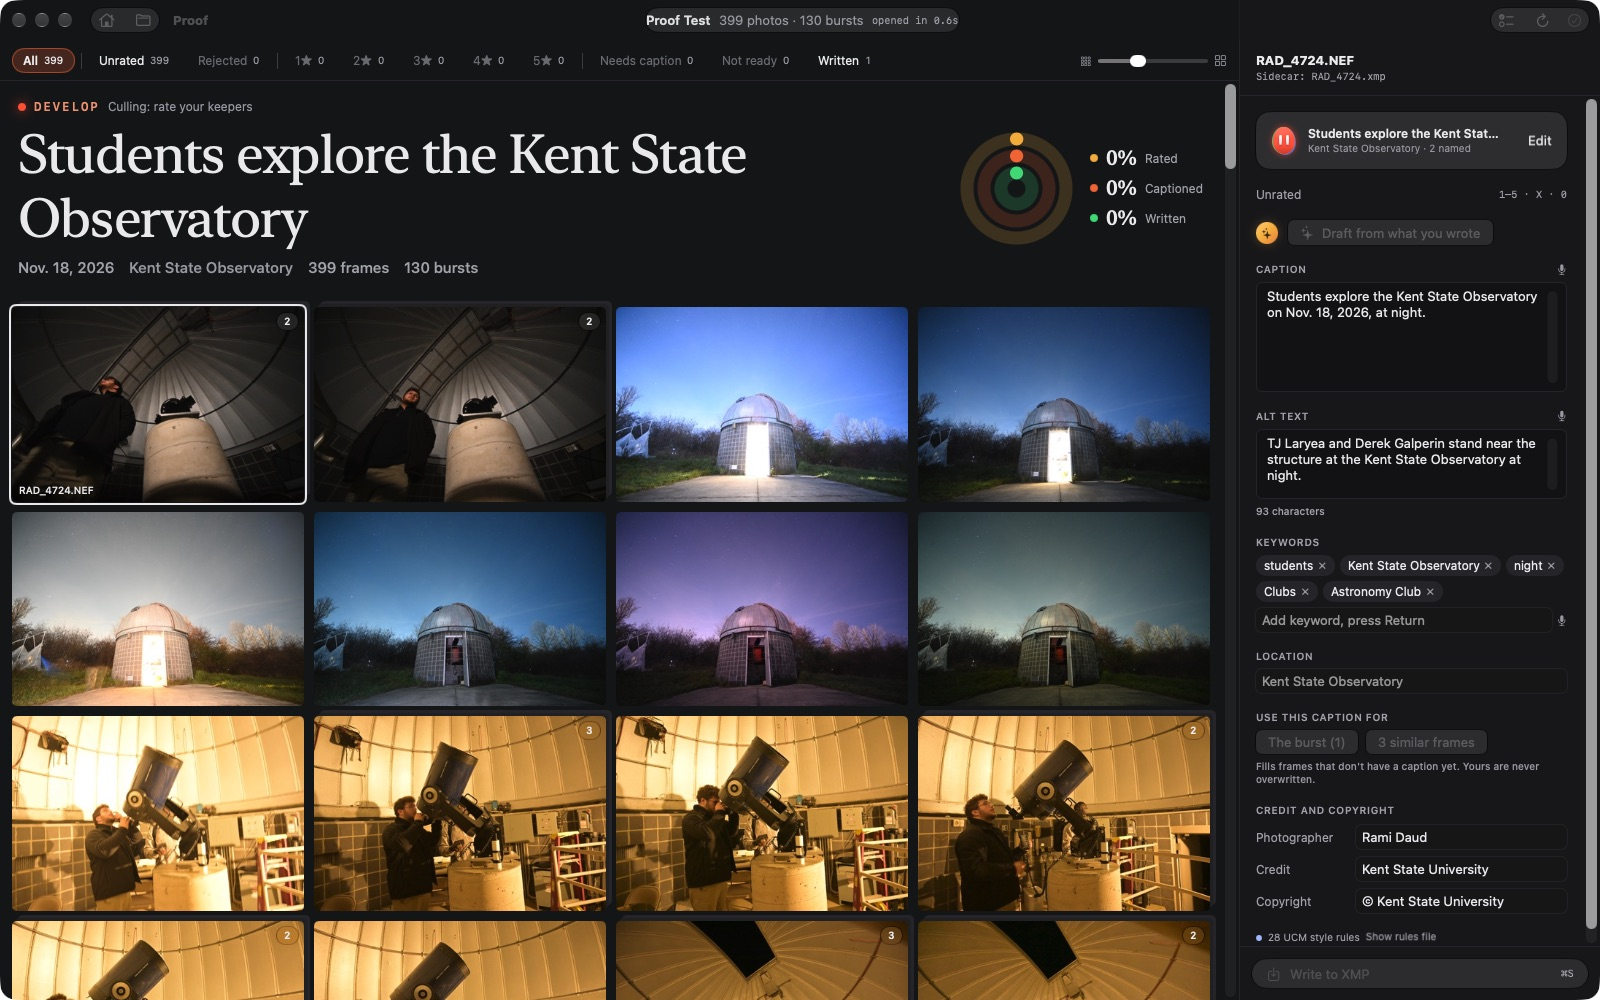
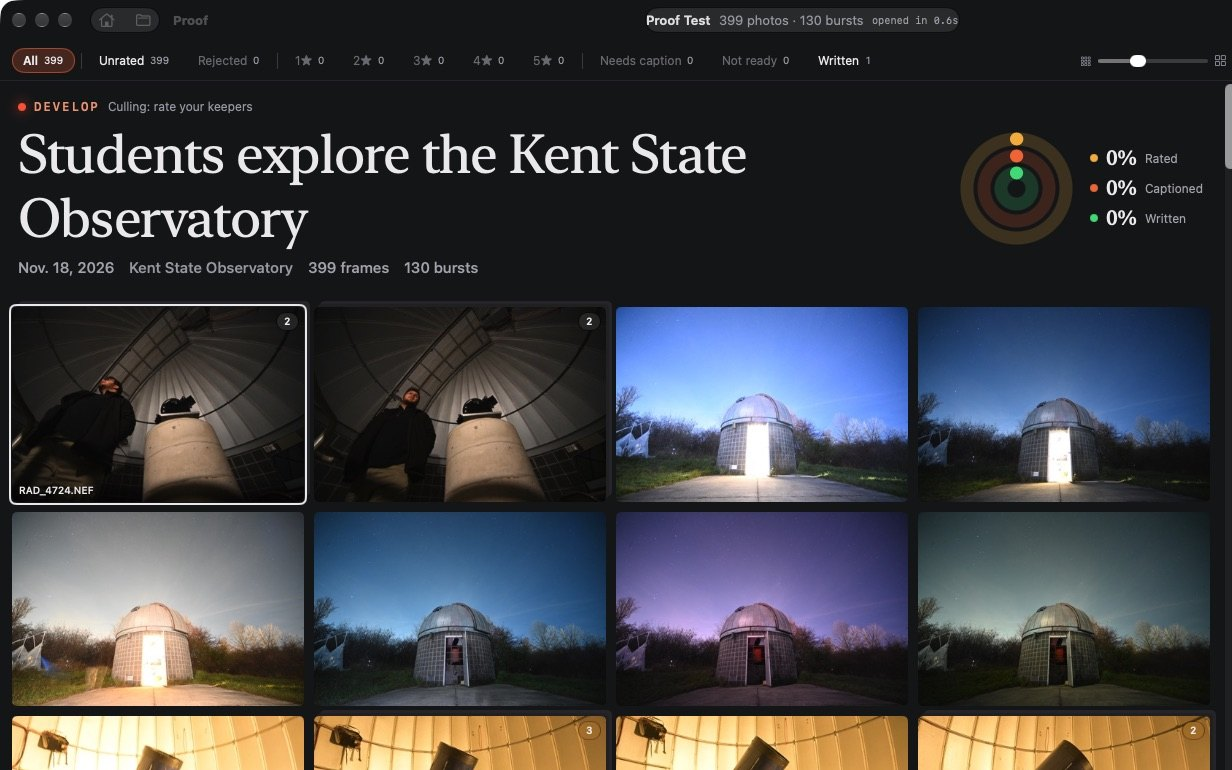
Proof case file: fit captions and layout to the real stills
- Crop grid.jpg to the grid; its side panel showed names in alt text,
  which contradicted rule 2 on the page
- Drop the drawn window title bar; the stills carry their own chrome
- Rewrite captions and alt text to match what each screen shows
- Until demo.mp4 exists, the hero shows the grid still (and hides the
  duplicate below); the video takes over once the file lands
- Screens open full size on tap

Claude-Session: https://claude.ai/code/session_01Lig4WMKQv67K6HpMEUw5vW

diff --git a/work/proof/index.html b/work/proof/index.html
@@ -42,10 +42,15 @@
 .pf .dark h2 { color: var(--dk-ink); }
 .pf .dark h2 i { color: var(--safe); }
 .pf .win { position: relative; margin: 0; border-radius: 12px; overflow: hidden; background: #0e0d0a; box-shadow: 0 0 0 1px rgba(255,255,255,.09), 0 30px 60px -30px rgba(0,0,0,.8); }
-.pf .win::before { content: ""; display: block; height: 26px; background: #1d1b16 radial-gradient(circle at 14px 13px, #ff5f57 5px, transparent 5.5px), #1d1b16; background-image: radial-gradient(circle at 14px 13px, #ff5f57 4.5px, transparent 5px), radial-gradient(circle at 30px 13px, #febc2e 4.5px, transparent 5px), radial-gradient(circle at 46px 13px, #28c840 4.5px, transparent 5px); border-bottom: 1px solid rgba(255,255,255,.06); }
 .pf .win img, .pf .win video { display: block; width: 100%; height: auto; }
 .pf .win .todo { display: none; }
 .pf .win.missing img, .pf .win.missing video { display: none; }
+.pf .win .fb { display: none; }
+.pf .win.missing .fb { display: block; }
+.pf .hero-shot .win.missing .todo { display: none; }
+.pf .win a.zoom { display: block; cursor: zoom-in; }
+.pf .win.missing a.zoom { display: none; }
+.pf .win a.zoom:focus-visible { outline: 2px solid var(--amber); outline-offset: -2px; }
 .pf .win.missing .todo { display: grid; place-content: center; gap: 6px; text-align: center; aspect-ratio: 16 / 10; padding: 20px; font-family: var(--mono); font-size: 12px; letter-spacing: .08em; text-transform: uppercase; color: var(--dk-mute); background: repeating-linear-gradient(135deg, #15130f 0 14px, #191712 14px 28px); }
 .pf .win.missing .todo b { color: var(--amber); font-weight: 500; }
 .pf figcaption { font-family: var(--mono); font-size: 11.5px; letter-spacing: .04em; line-height: 1.5; margin-top: 10px; color: var(--ink-2); }
@@ -171,9 +176,10 @@
           <div class="dark hero-shot">
             <figure class="win" data-shot>
               <video src="../../assets/img/proof/demo.mp4" poster="../../assets/img/proof/demo-poster.jpg" muted loop playsinline preload="metadata" aria-label="Proof in use: a folder of night photos opens, a burst is rated, a caption is drafted and approved, and Lightroom shows it."></video>
+              <img class="fb" src="../../assets/img/proof/grid.jpg" alt="Proof's grid of the observatory shoot under the title Students explore the Kent State Observatory, with burst counts on the thumbnails, a filter bar along the top and progress rings for rated, captioned and written." width="1232" height="770">
               <div class="todo" aria-hidden="true"><b>Recording to come</b><span>demo.mp4 · folder to Lightroom, 90 seconds</span></div>
             </figure>
-            <figcaption>Proof, from a folder of raw files to a caption in Lightroom. The caption was drafted on the Mac and approved by me before anything was written.</figcaption>
+            <figcaption id="hero-cap" data-fallback="The grid. Frames shot within a second of each other stack into bursts, and previews come from inside each raw file, so this 399-frame shoot opened in 0.6 seconds.">Proof, from a folder of raw files to a caption in Lightroom. The caption was drafted on the Mac and approved by me before anything was written.</figcaption>
           </div>
 
           <section aria-labelledby="why-h">
@@ -225,15 +231,15 @@
             </ol>
             <div class="dark" style="margin-top:28px">
               <div class="gallery">
-                <figure class="wide"><div class="win" data-shot><img src="../../assets/img/proof/grid.jpg" alt="Proof's grid of night-sky photos, grouped into burst stacks, with a filter bar along the top." width="2400" height="1500" loading="lazy"><div class="todo" aria-hidden="true"><b>Screenshot to come</b><span>grid.jpg · the observatory shoot in the grid</span></div></div>
-                  <figcaption>The grid. Frames shot within a second of each other stack into bursts, and previews come from inside each raw file, so 399 frames scroll without waiting.</figcaption></figure>
-                <figure><div class="win" data-shot><img src="../../assets/img/proof/brief.jpg" alt="A chat with Pixel asking about the event, with Airtable jobs from the same day offered as quick replies." width="1600" height="1000" loading="lazy"><div class="todo" aria-hidden="true"><b>Screenshot to come</b><span>brief.jpg · the shoot brief with Pixel</span></div></div>
-                  <figcaption>The brief. Pixel asks what the shoot was, and the matching Airtable job fills it in.</figcaption></figure>
-                <figure><div class="win" data-shot><img src="../../assets/img/proof/draft.jpg" alt="A photo in full view with an amber draft caption and alt text, and an Accept button." width="1600" height="1000" loading="lazy"><div class="todo" aria-hidden="true"><b>Screenshot to come</b><span>draft.jpg · an amber draft waiting for approval</span></div></div>
-                  <figcaption>The gate. Drafts show in amber and nothing is written until I edit or accept.</figcaption></figure>
-                <figure><div class="win" data-shot><img src="../../assets/img/proof/faces.jpg" alt="A photo in full view with one face picked out and a name field open, offering the two names from the shoot brief." width="1600" height="1000" loading="lazy"><div class="todo" aria-hidden="true"><b>Screenshot to come</b><span>faces.jpg · naming a face group</span></div></div>
-                  <figcaption>Names come from a person. Name a face once and Proof offers it for the rest of that shoot, nothing more.</figcaption></figure>
-                <figure><div class="win" data-shot><img src="../../assets/img/proof/lightroom.jpg" alt="Lightroom Classic's metadata panel showing the caption and keywords written by Proof." width="1600" height="1000" loading="lazy"><div class="todo" aria-hidden="true"><b>Screenshot to come</b><span>lightroom.jpg · the caption arriving in Lightroom</span></div></div>
+                <figure class="wide" id="grid-fig"><div class="win" data-shot><a class="zoom" href="../../assets/img/proof/grid.jpg"><img src="../../assets/img/proof/grid.jpg" alt="Proof's grid of the observatory shoot under the title Students explore the Kent State Observatory, with burst counts on the thumbnails, a filter bar along the top and progress rings for rated, captioned and written." width="1232" height="770" loading="lazy"></a><div class="todo" aria-hidden="true"><b>Screenshot to come</b><span>grid.jpg · the observatory shoot in the grid</span></div></div>
+                  <figcaption>The grid. Frames shot within a second of each other stack into bursts, and previews come from inside each raw file, so this 399-frame shoot opened in 0.6 seconds.</figcaption></figure>
+                <figure><div class="win" data-shot><a class="zoom" href="../../assets/img/proof/brief.jpg"><img src="../../assets/img/proof/brief.jpg" alt="Pixel asks &ldquo;What&rsquo;s this shoot?&rdquo; beside a grid of telescope photos, with that day&rsquo;s Airtable jobs offered as quick replies and the caption and alt text fields still empty." width="1600" height="1000" loading="lazy"></a><div class="todo" aria-hidden="true"><b>Screenshot to come</b><span>brief.jpg · the shoot brief with Pixel</span></div></div>
+                  <figcaption>The brief. Before anything is drafted, Pixel asks what the shoot was and offers that day&rsquo;s jobs from Airtable.</figcaption></figure>
+                <figure><div class="win" data-shot><a class="zoom" href="../../assets/img/proof/draft.jpg"><img src="../../assets/img/proof/draft.jpg" alt="A photo of a man at a telescope in the observatory dome, with an amber AI draft caption and alt text, Accept, Redraft and Discard buttons, and a note that nothing is written until you accept." width="1600" height="1000" loading="lazy"></a><div class="todo" aria-hidden="true"><b>Screenshot to come</b><span>draft.jpg · an amber draft waiting for approval</span></div></div>
+                  <figcaption>The gate. Drafts show in amber and nothing is written until I edit or accept. The face isn&rsquo;t named yet, so the draft names no one.</figcaption></figure>
+                <figure><div class="win" data-shot><a class="zoom" href="../../assets/img/proof/faces.jpg"><img src="../../assets/img/proof/faces.jpg" alt="A photo in full view with one face picked out and a name field open, offering the two names from the shoot brief." width="1600" height="1000" loading="lazy"></a><div class="todo" aria-hidden="true"><b>Screenshot to come</b><span>faces.jpg · naming a face group</span></div></div>
+                  <figcaption>Names come from a person. Proof offers only the names in the brief, and Leave unnamed is always one of the choices. Face groups stay on this Mac, for this shoot only.</figcaption></figure>
+                <figure><div class="win" data-shot><a class="zoom" href="../../assets/img/proof/lightroom.jpg"><img src="../../assets/img/proof/lightroom.jpg" alt="Lightroom Classic's metadata panel showing the caption and keywords written by Proof." width="1600" height="1000" loading="lazy"></a><div class="todo" aria-hidden="true"><b>Screenshot to come</b><span>lightroom.jpg · the caption arriving in Lightroom</span></div></div>
                   <figcaption>The proof of the round trip: Lightroom reads the caption and keywords from the sidecar, and the raw file is untouched.</figcaption></figure>
               </div>
             </div>
@@ -260,8 +266,8 @@
                 <figcaption>Before any code: a concept for the shoot overview, sketched with Claude from my spec. Sample data.</figcaption></figure>
               <figure><img src="../../assets/img/proof/concept-cull.jpg" alt="An early concept screen for culling, showing a suggested best frame in a burst and why it was picked." width="1600" height="1000" loading="lazy" style="display:block;width:100%;height:auto;border:1px solid var(--rule)">
                 <figcaption>A concept for culling: every suggestion says why. Sample data.</figcaption></figure>
-              <figure class="wide"><div class="win" data-shot style="box-shadow:0 0 0 1px var(--rule)"><img src="../../assets/img/proof/directions.jpg" alt="Three app design directions laid side by side on a canvas." width="2400" height="1200" loading="lazy"><div class="todo" aria-hidden="true"><b>Screenshot to come</b><span>directions.jpg · the three design directions</span></div></div>
-                <figcaption>Design by comparison, not tweaking: three directions side by side. I picked one direction's structure with another's personality.</figcaption></figure>
+              <figure class="wide"><div class="win" data-shot style="box-shadow:0 0 0 1px var(--rule)"><a class="zoom" href="../../assets/img/proof/directions.jpg"><img src="../../assets/img/proof/directions.jpg" alt="Three app design directions side by side, Darkroom, Field Day and Glass Studio, each with a sample home screen and notes on palette, type, motion, Pixel and voice." width="2400" height="1200" loading="lazy"></a><div class="todo" aria-hidden="true"><b>Screenshot to come</b><span>directions.jpg · the three design directions</span></div></div>
+                <figcaption>Design by comparison, not tweaking: three directions side by side. I picked Glass Studio&rsquo;s structure with Darkroom&rsquo;s personality.</figcaption></figure>
             </div>
           </section>
 
@@ -314,8 +320,17 @@
 <script>
 {
   // Screens not captured yet show a labelled placeholder instead of a broken image.
-  const mark = el => el.closest('[data-shot]') && el.closest('[data-shot]').classList.add('missing');
-  document.querySelectorAll('[data-shot] img').forEach(img => { if (img.complete && img.naturalWidth === 0) mark(img); img.addEventListener('error', () => mark(img)); });
+  const mark = el => {
+    const box = el.closest('[data-shot]'); if (!box || box.classList.contains('missing')) return;
+    box.classList.add('missing');
+    // Until the recording exists, the hero shows the grid still, so drop the duplicate further down.
+    if (el.tagName === 'VIDEO') {
+      const cap = document.getElementById('hero-cap'), dup = document.getElementById('grid-fig');
+      if (cap && cap.dataset.fallback) cap.textContent = cap.dataset.fallback;
+      if (dup) dup.hidden = true;
+    }
+  };
+  document.querySelectorAll('[data-shot] img:not(.fb)').forEach(img => { if (img.complete && img.naturalWidth === 0) mark(img); img.addEventListener('error', () => mark(img)); });
   document.querySelectorAll('[data-shot] video').forEach(v => {
     v.addEventListener('error', () => mark(v), true);
     const src = v.getAttribute('src');
